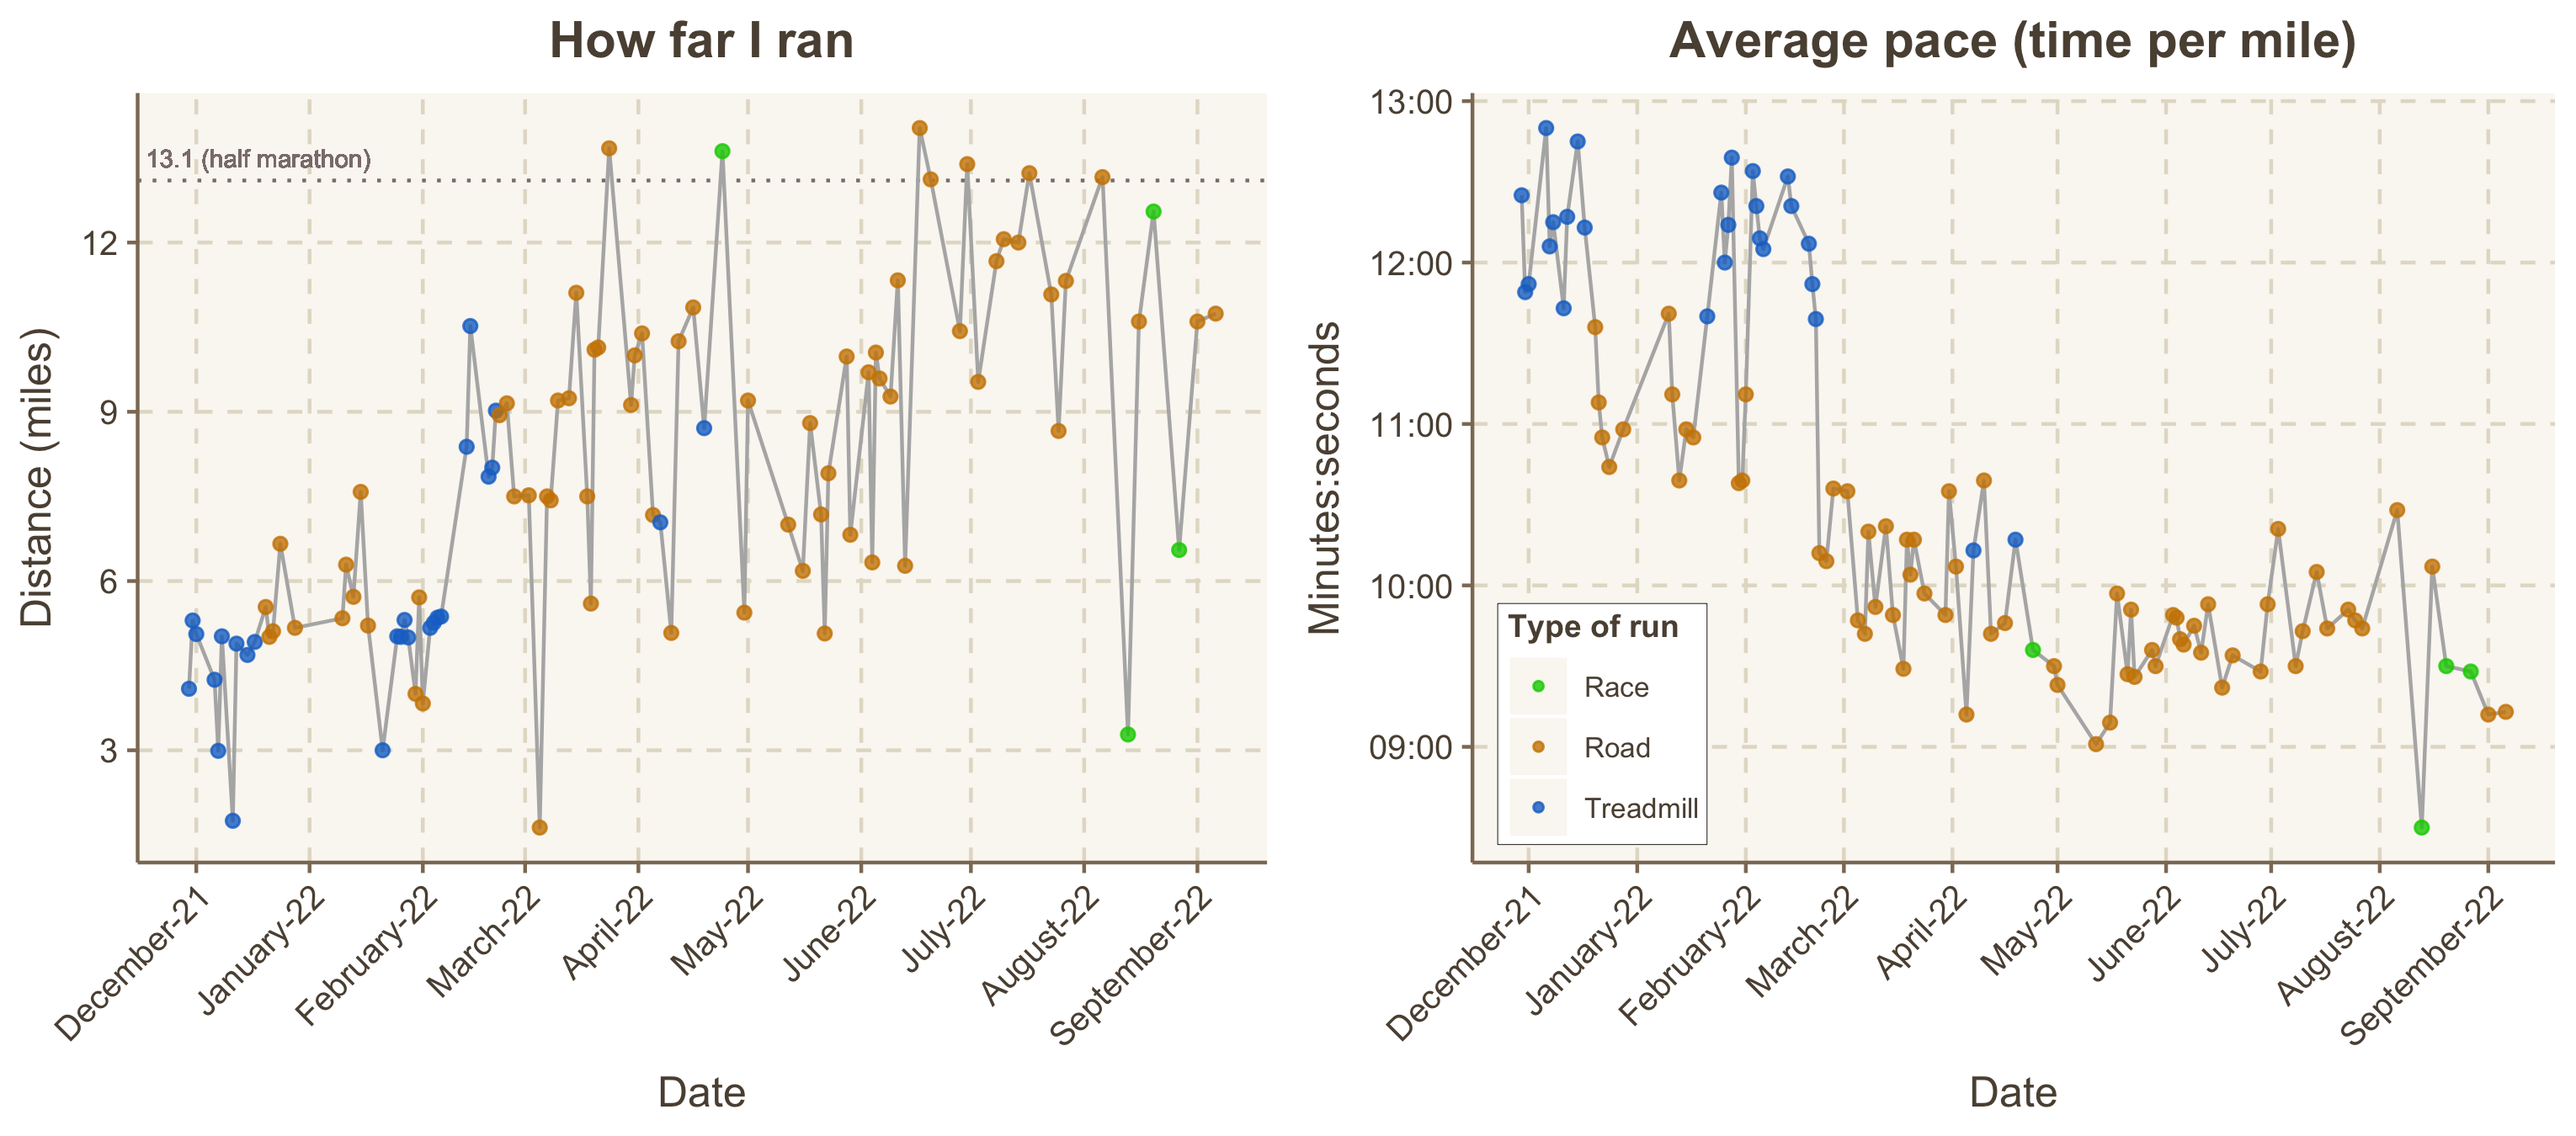
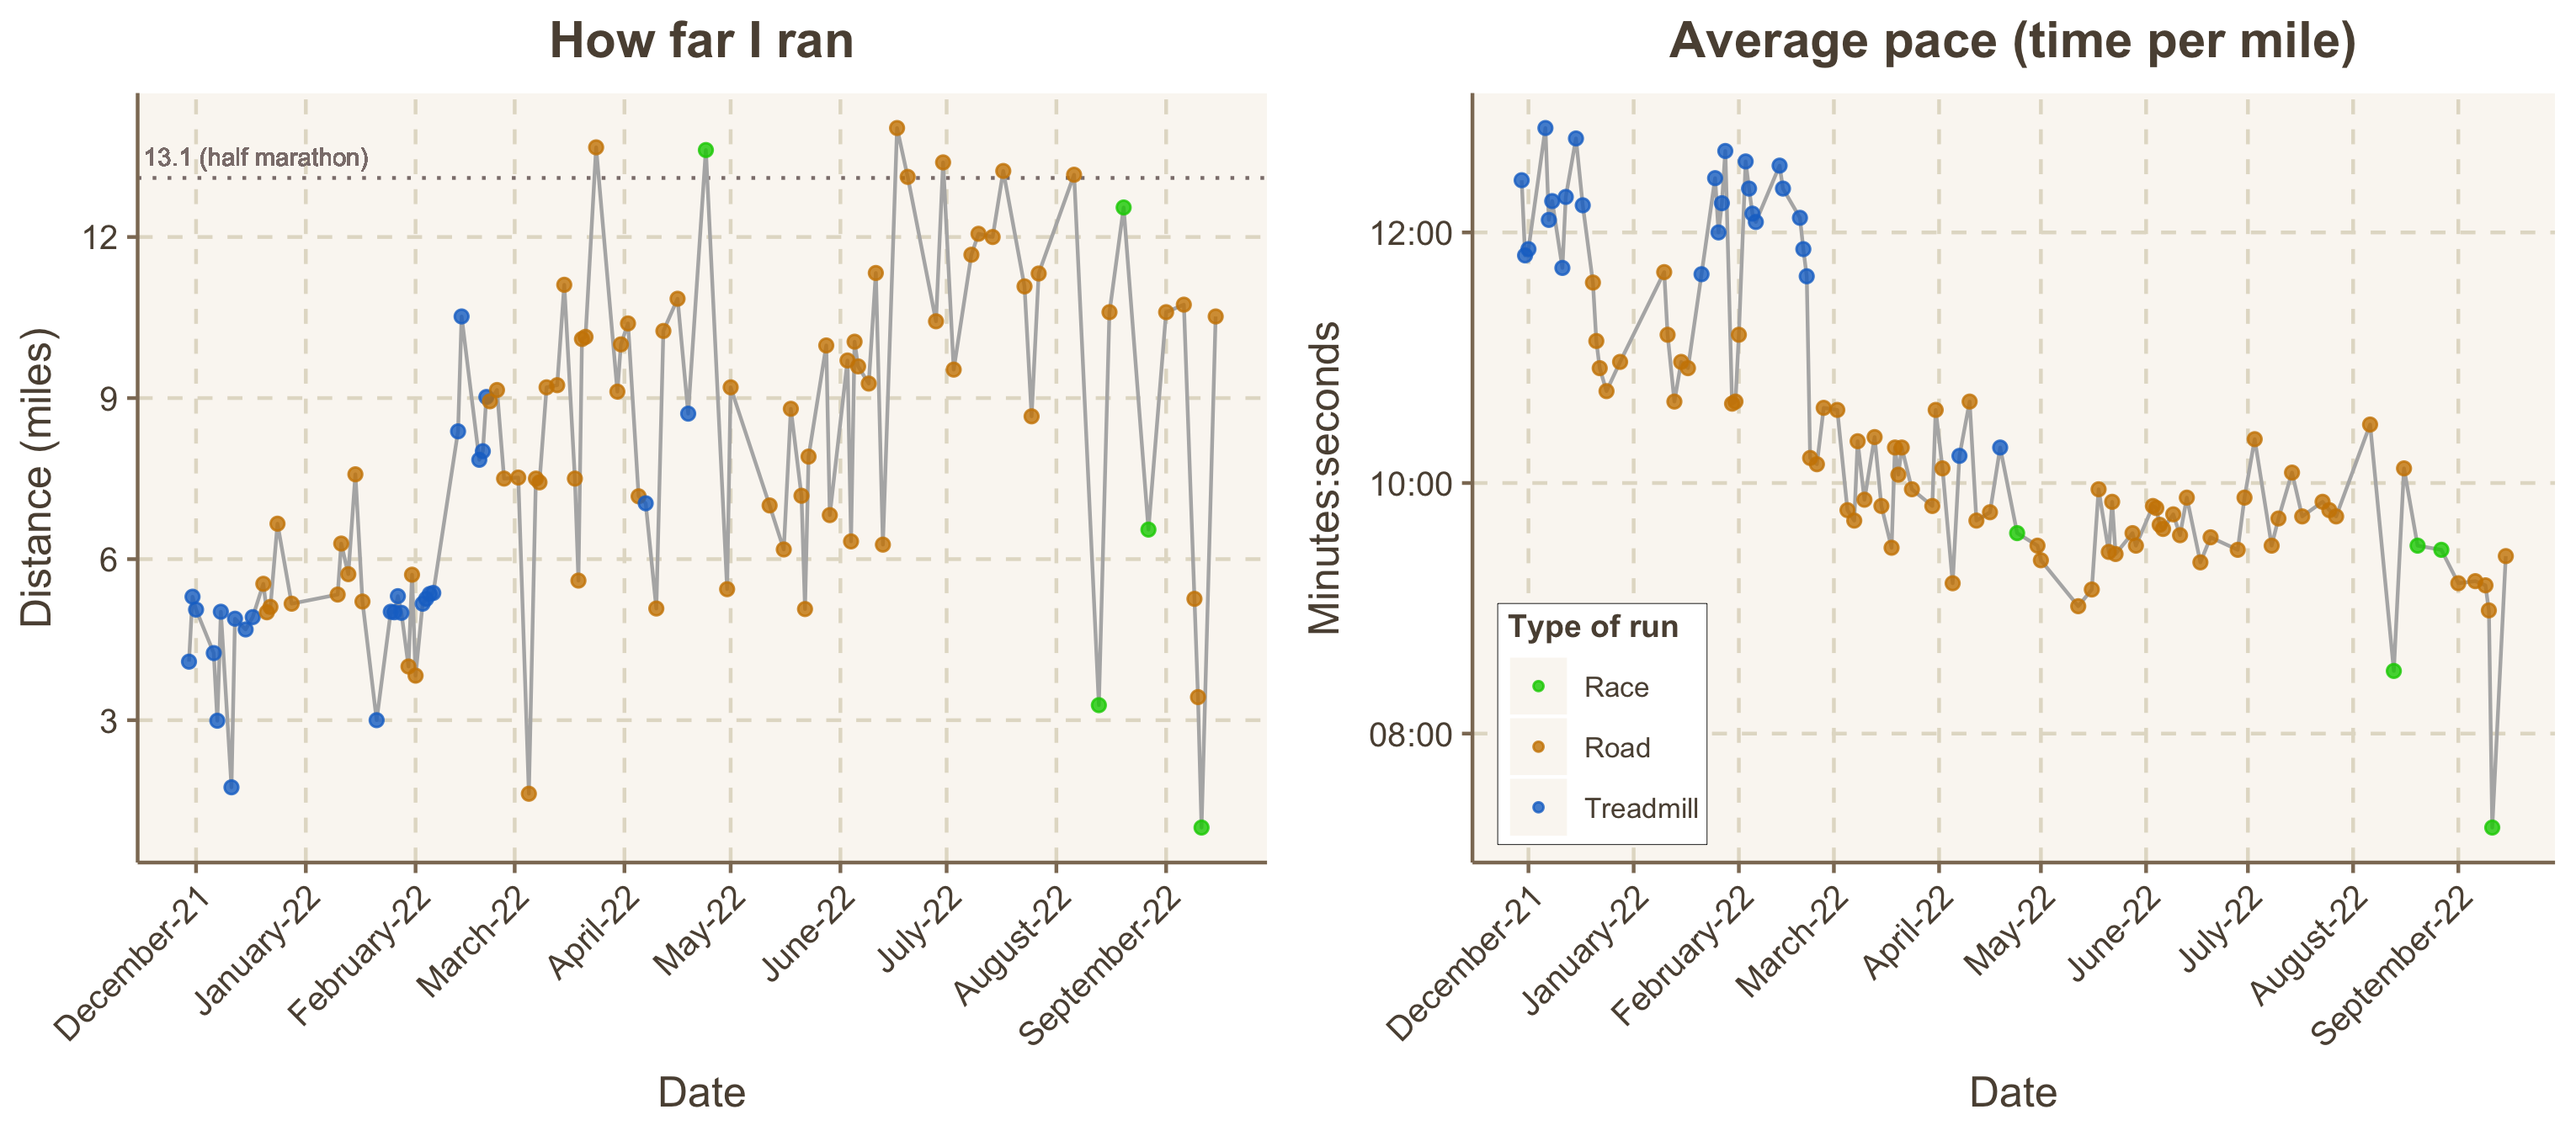
9/15/22

diff --git a/README.md b/README.md
@@ -25,7 +25,7 @@ ggarrange(p1, p2, nrow=1)
 sum(runningData$Miles)
 ```
 
-    ## [1] 764.98
+    ## [1] 785.19
 
 Average distance during the last 10 runs:
 
@@ -33,4 +33,12 @@ Average distance during the last 10 runs:
 mean(tail(runningData$Miles, 10))
 ```
 
-    ## [1] 9.854
+    ## [1] 7.453
+
+Excluding races:
+
+``` r
+mean(tail(runningData$Miles[runningData$Treadmill_Road != "Race"], 10))
+```
+
+    ## [1] 9.537
